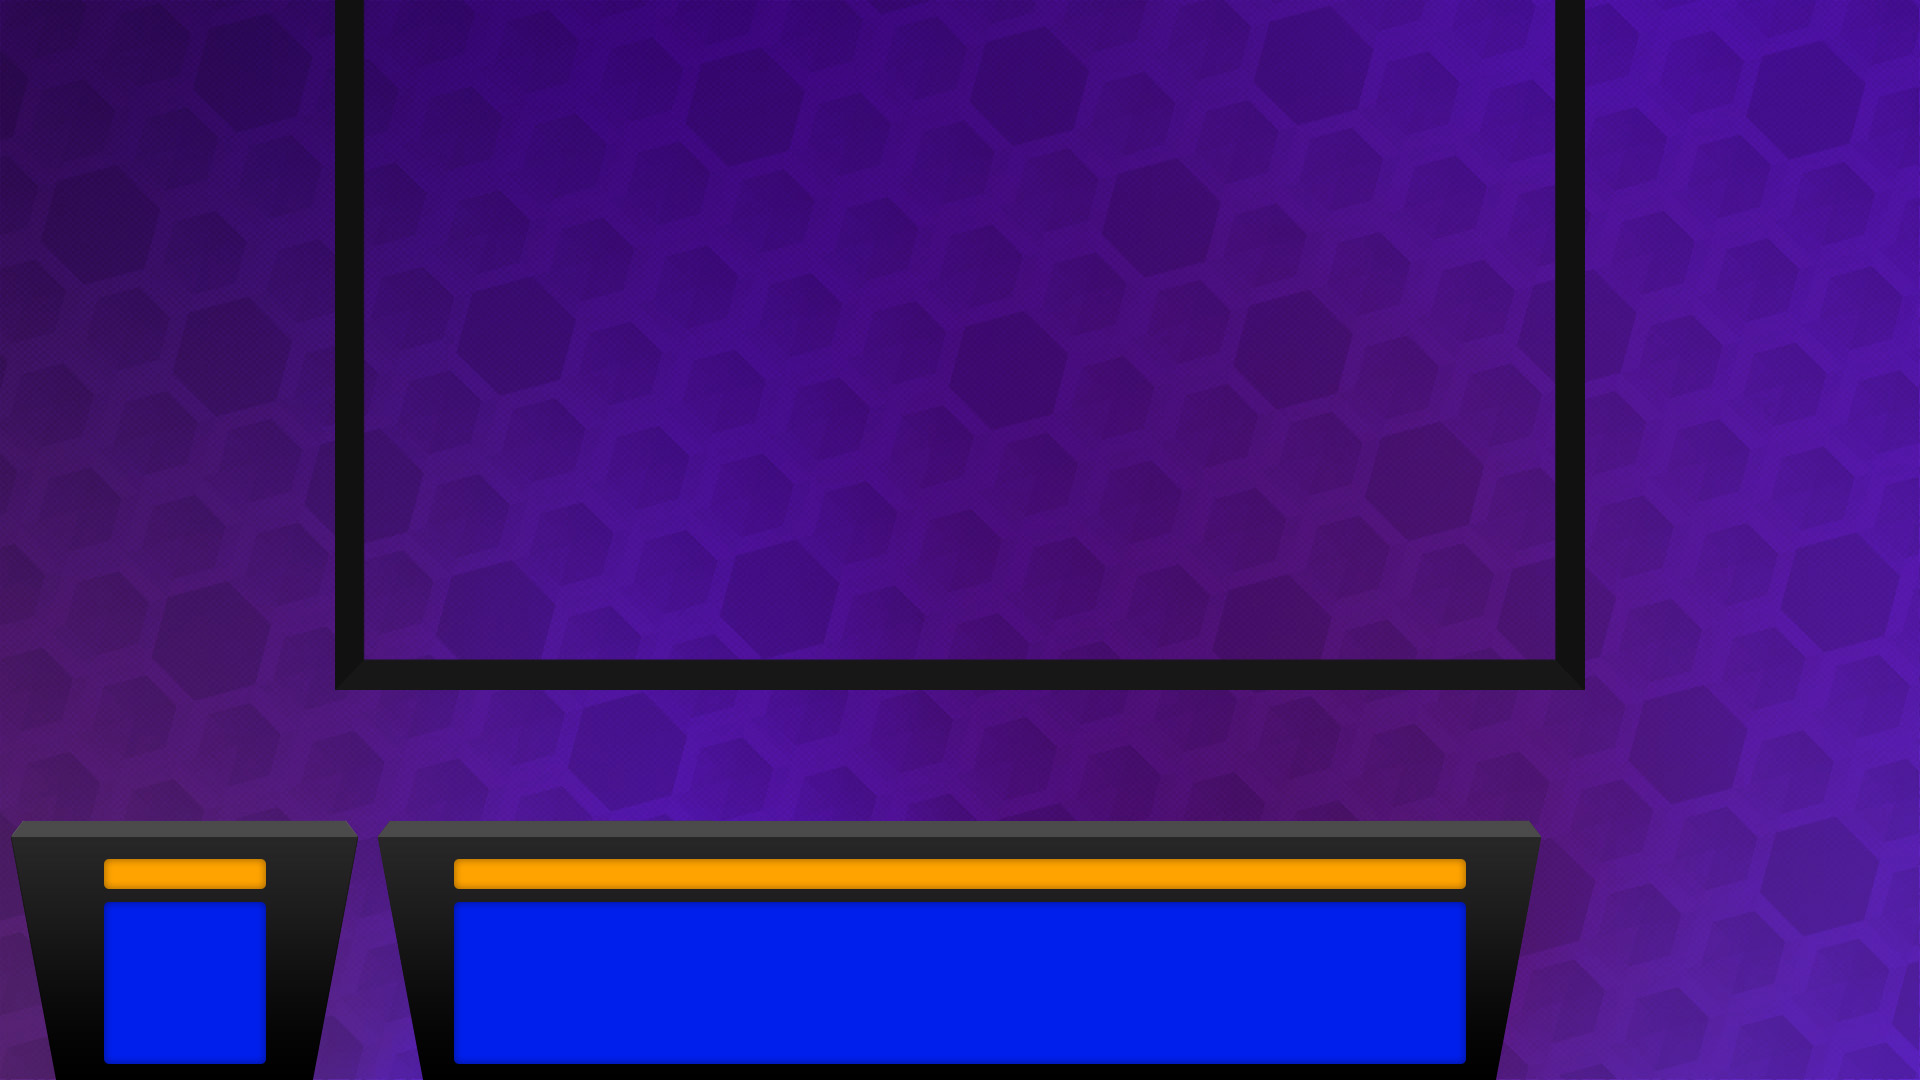
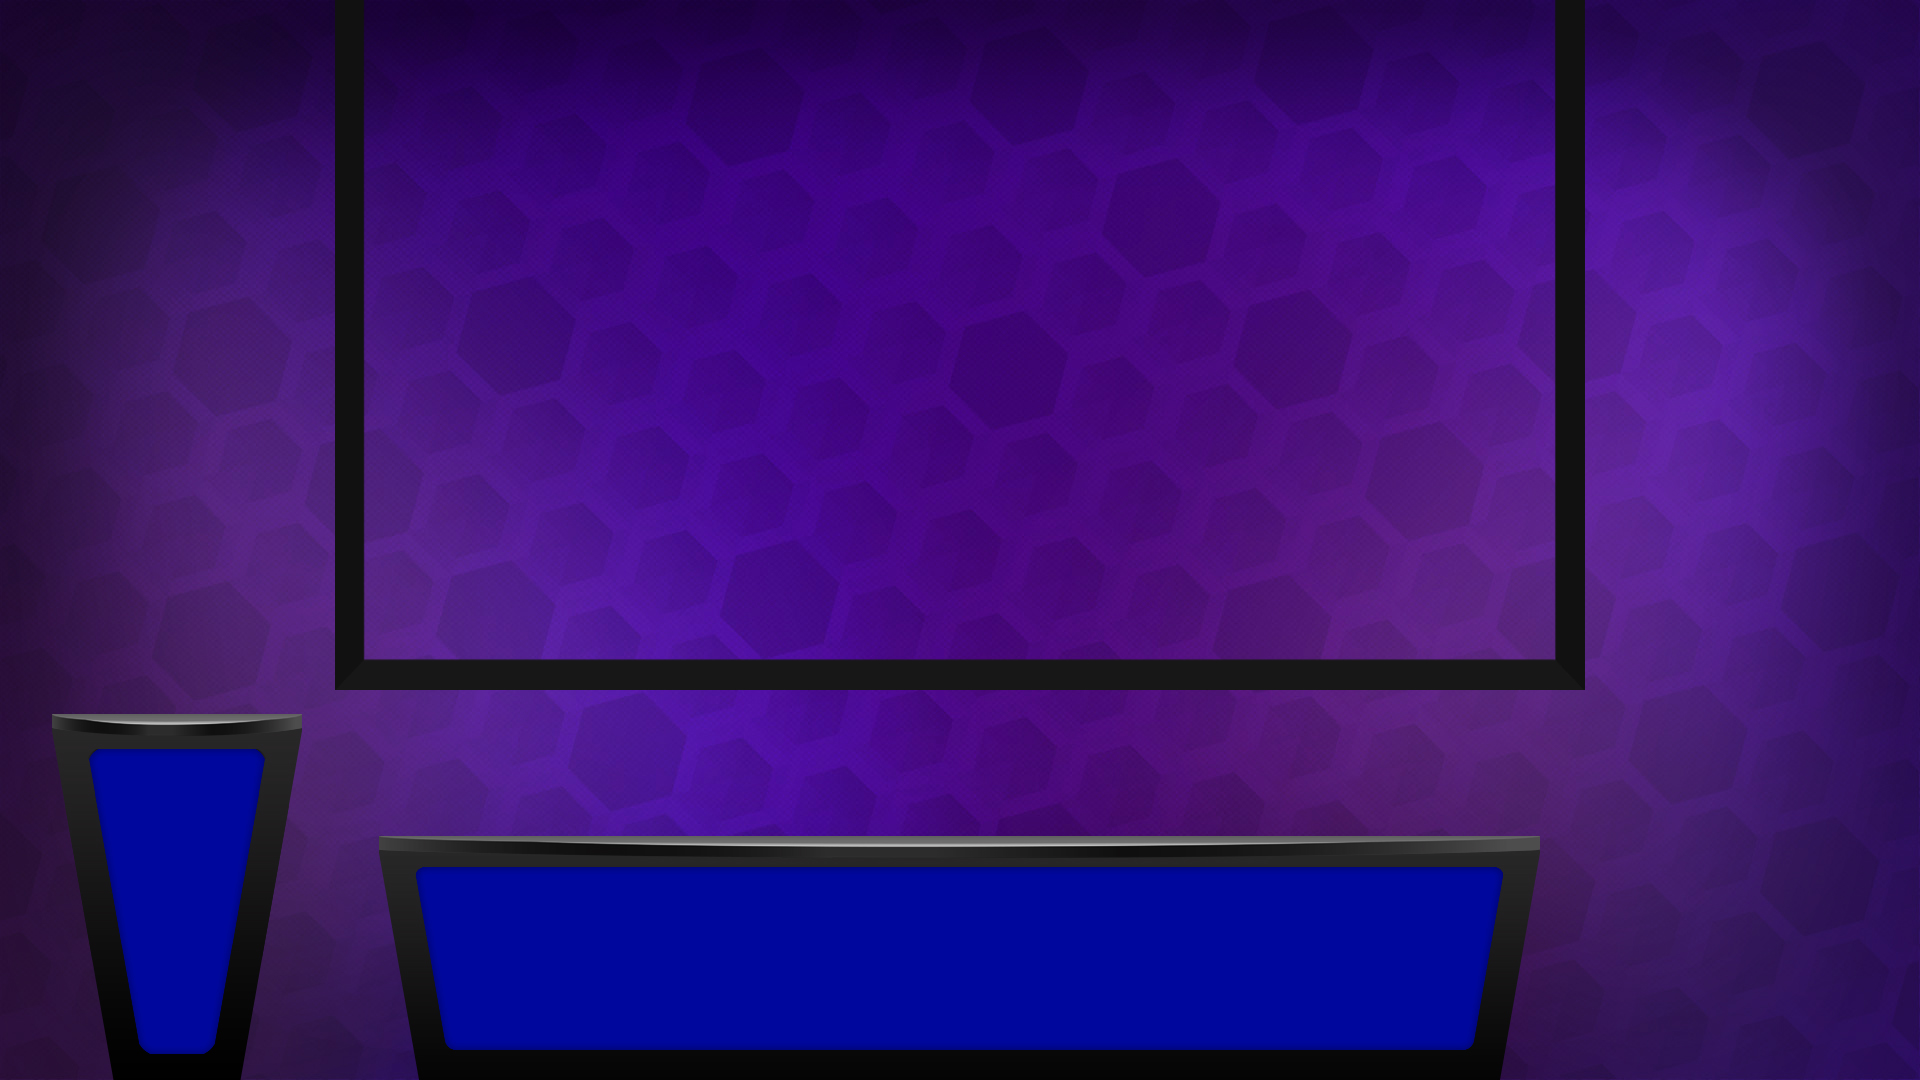
Версия 7.5.1

diff --git a/src/SIGame/SIGame/View/StudiaCommandPanel.xaml b/src/SIGame/SIGame/View/StudiaCommandPanel.xaml
@@ -233,7 +233,7 @@
         </local:DropDownButton>
         <Button Grid.Row="4" Grid.Column="1" Cursor="Hand" Command="{Binding Data.ShowmanDataExtensions.ChangeSums}" Content="{x:Static lp:Resources.Sums}" ToolTip="{x:Static lp:Resources.Sums_Hint}" />
 
-        <ToggleButton Grid.Row="5" Cursor="Hand" Style="{StaticResource PauseButton}" IsChecked="{Binding IsPaused}" Command="{Binding ChangePauseInGame}" />
+        <ToggleButton Grid.Row="5" Cursor="Hand" Style="{StaticResource PauseButton}" IsChecked="{Binding IsPaused, Mode=OneWay}" Command="{Binding ChangePauseInGame}" />
         <local:DropDownButton Grid.Row="5" Grid.Column="1" Cursor="Hand" Content="{x:Static lp:Resources.Exit}">
             <local:DropDownButton.DropDown>
                 <ContextMenu Placement="Relative" HorizontalOffset="100" VerticalOffset="-128">

diff --git a/src/SIGame/SIGame/View/Studia.xaml b/src/SIGame/SIGame/View/Studia.xaml
@@ -494,7 +494,7 @@
 
         <TextBlock Grid.Row="1" Grid.ColumnSpan="3" Text="{Binding Data.Hint}" FontSize="17" Style="{StaticResource HiddenTextBlock}"
                    Foreground="Black" VerticalAlignment="Bottom" HorizontalAlignment="Center" Margin="0,0,0,5" TextWrapping="Wrap" Padding="15,0"
-                   Background="White">
+                   Background="White" FontWeight="Bold">
         </TextBlock>
 
         <StackPanel Orientation="Vertical" Grid.RowSpan="2" Grid.ColumnSpan="3" HorizontalAlignment="Left" VerticalAlignment="Top" Margin="15,63,0,0">

diff --git a/src/SIGame/SIGame.ViewModel/ViewModel/GameViewModel.cs b/src/SIGame/SIGame.ViewModel/ViewModel/GameViewModel.cs
@@ -22,9 +22,9 @@ namespace SIGame.ViewModel
 
         public IViewerClient Host { get; private set; }
 
-        public ViewerData Data { get { return Host.MyData; } }
+        public ViewerData Data => Host.MyData;
 
-        public TableInfoViewModel TInfo { get { return Host.MyLogic.TInfo; } }
+        public TableInfoViewModel TInfo => Host.MyLogic.TInfo;
 
         public CustomCommand EndGame { get; }
 
@@ -35,28 +35,28 @@ namespace SIGame.ViewModel
 
         public CustomCommand Move { get; set; }
 
-        private bool networkGame = false;
+        private bool _networkGame = false;
 
         public bool NetworkGame
         {
-            get { return networkGame; }
-            set { networkGame = value; OnPropertyChanged(); }
+            get { return _networkGame; }
+            set { _networkGame = value; OnPropertyChanged(); }
         }
 
-        private int networkGamePort;
+        private int _networkGamePort;
 
         public int NetworkGamePort
         {
-            get { return networkGamePort; }
-            set { networkGamePort = value; OnPropertyChanged(); }
+            get { return _networkGamePort; }
+            set { _networkGamePort = value; OnPropertyChanged(); }
         }
 
-        private bool isPaused;
+        private bool _isPaused;
 
         public bool IsPaused
         {
-            get { return isPaused; }
-            set { isPaused = value; OnPropertyChanged(); }
+            get { return _isPaused; }
+            set { _isPaused = value; OnPropertyChanged(); }
         }
 
         public event Action GameEnded;
@@ -99,6 +99,7 @@ namespace SIGame.ViewModel
             Host.PersonDisconnected += UpdateMoveCommand;
             Host.Timer += Host_Timer;
             Host.Ad += Host_Ad;
+            Host.IsPausedChanged += Host_IsPausedChanged;
 
             UserSettings = userSettings;
 
@@ -113,6 +114,11 @@ namespace SIGame.ViewModel
             }
 
             Timers[1].TimeChanged += GameViewModel_TimeChanged;
+        }
+
+        private void Host_IsPausedChanged(bool isPaused)
+        {
+            IsPaused = isPaused;
         }
 
         private void Server_Reconnected() => Host.AddLog(Resources.ReconnectingMessage);
@@ -196,6 +202,7 @@ namespace SIGame.ViewModel
             Host.PersonDisconnected -= UpdateMoveCommand;
             Host.Timer -= Host_Timer;
             Host.Ad -= Host_Ad;
+            Host.IsPausedChanged -= Host_IsPausedChanged;
             Host = newHost;
             Host.Switch += Host_Switch;
             Host.StageChanged += UpdateMoveCommand;
@@ -204,6 +211,7 @@ namespace SIGame.ViewModel
             Host.OnIsHostChanged += UpdateMoveCommand;
             Host.Timer += Host_Timer;
             Host.Ad += Host_Ad;
+            Host.IsPausedChanged += Host_IsPausedChanged;
 
             UpdateMoveCommand();
 

diff --git a/src/SICore/SICore/Clients/Game/ThemeDeletersEnumerator.cs b/src/SICore/SICore/Clients/Game/ThemeDeletersEnumerator.cs
@@ -141,22 +141,6 @@ namespace SICore.Clients.Game
 
             _removeLog.Add("Before: " + removeLog.ToString());
 
-            if (!_order.Any(o => o.PlayerIndex == index || o.PlayerIndex == -1 && o.PossibleIndicies.Contains(index)))
-            {
-                for (var i = 0; i < _order.Length; i++)
-                {
-                    var playerIndex = _order[i].PlayerIndex;
-                    if (playerIndex > index)
-                    {
-                        _order[i].PlayerIndex--;
-                        continue;
-                    }
-                }
-
-                _removeLog.Add("After: " + ToString());
-                return;
-            }
-
             var processedPossibleIndicies = new HashSet<HashSet<int>>();
 
             void updatePossibleIndices(IndexInfo indexInfo)
@@ -180,6 +164,27 @@ namespace SICore.Clients.Game
                 }
 
                 processedPossibleIndicies.Add(possibleIndices);
+            }
+
+            if (!_order.Any(o => o.PlayerIndex == index || o.PlayerIndex == -1 && o.PossibleIndicies.Contains(index)))
+            {
+                for (var i = 0; i < _order.Length; i++)
+                {
+                    var playerIndex = _order[i].PlayerIndex;
+                    if (playerIndex > index)
+                    {
+                        _order[i].PlayerIndex--;
+                        continue;
+                    }
+
+                    if (playerIndex == -1)
+                    {
+                        updatePossibleIndices(_order[i]);
+                    }
+                }
+
+                _removeLog.Add("After: " + ToString());
+                return;
             }
 
             try

diff --git a/test/SICore/SICore.Tests/ThemeDeletersEnumeratorTests.cs b/test/SICore/SICore.Tests/ThemeDeletersEnumeratorTests.cs
@@ -63,5 +63,29 @@ namespace SICore.Tests
 
             Assert.IsFalse(enumerator.MoveNext());
         }
+
+        [Test]
+        public void RemoveNew()
+        {
+            var variants = new HashSet<int>(new int[] { 4 });
+            var newVariants = new HashSet<int>(new int[] { 3 });
+
+            var enumerator = new ThemeDeletersEnumerator(new []
+            {
+                new ThemeDeletersEnumerator.IndexInfo(1),
+                new ThemeDeletersEnumerator.IndexInfo(0),
+                new ThemeDeletersEnumerator.IndexInfo(2),
+                new ThemeDeletersEnumerator.IndexInfo(variants)
+            });
+
+            enumerator.RemoveAt(3);
+
+            enumerator.Reset(false);
+            enumerator.MoveNext();
+            enumerator.MoveNext();
+            enumerator.MoveNext();
+            enumerator.MoveNext();
+            Assert.AreEqual(newVariants, enumerator.Current.PossibleIndicies);
+        }
     }
 }

diff --git a/src/SICore/SICore/Clients/Viewer/Viewer.cs b/src/SICore/SICore/Clients/Viewer/Viewer.cs
@@ -74,6 +74,7 @@ namespace SICore
         public event Action<IViewerClient> Switch;
         public event Action StageChanged;
         public event Action<string> Ad;
+        public event Action<bool> IsPausedChanged;
 
         public ViewerData MyData => ClientData;
 
@@ -423,7 +424,9 @@ namespace SICore
                         {
                             #region Pause
 
-                            _logic.OnPauseChanged(mparams[1] == "+");
+                            var isPaused = mparams[1] == "+";
+                            _logic.OnPauseChanged(isPaused);
+                            IsPausedChanged?.Invoke(isPaused);
 
                             if (mparams.Length > 4)
                             {

diff --git a/src/SICore/SICore/Clients/Game/GameLogic.cs b/src/SICore/SICore/Clients/Game/GameLogic.cs
@@ -124,6 +124,10 @@ namespace SICore
         {
             _data.AllowAppellation = false;
             _data.Round = round;
+            _data.CanMarkQuestion = false;
+            _data.AnswererIndex = -1;
+            _data.StakerIndex = -1;
+            _data.Type = null;
             ProcessRound(round, 1);
 
             if (_data.Settings.AppSettings.GameMode == SIEngine.GameModes.Sport)
@@ -544,6 +548,8 @@ namespace SICore
 
             _data.CanMarkQuestion = false;
             _data.AnswererIndex = -1;
+            _data.StakerIndex = -1;
+            _data.Type = null;
         }
 
         private void Engine_EndQuestion(int themeIndex, int questionIndex)

diff --git a/src/SIGame/SIGame/Converters/MainBackgroundConverter.cs b/src/SIGame/SIGame/Converters/MainBackgroundConverter.cs
@@ -20,7 +20,7 @@ namespace SIGame.Converters
                 if (value is string uriString && Uri.TryCreate(uriString, UriKind.Absolute, out Uri uri))
                     image.UriSource = uri;
                 else
-                    image.StreamSource = Application.GetResourceStream(new Uri("/SIGame;component/Theme/main_background.png", UriKind.Relative)).Stream;
+                    image.StreamSource = Application.GetResourceStream(new Uri("/SIGame;component/Theme/main_background.jpg", UriKind.Relative)).Stream;
 
                 image.EndInit();
 

diff --git a/src/SICore/SICore/Clients/Showman/Showman.cs b/src/SICore/SICore/Clients/Showman/Showman.cs
@@ -223,7 +223,7 @@ namespace SICore
                         }
                     case Messages.Hint:
                         {
-                            ClientData.Hint = LO[nameof(R.RightAnswer)].ToUpperInvariant() + ": " + mparams[1];
+                            ClientData.Hint = $"{LO[nameof(R.RightAnswer)].ToUpperInvariant()} : {mparams[1]}";
                             break;
                         }
                     case Messages.Stage:

diff --git a/src/SICore/SICore/Clients/Viewer/IViewerClient.cs b/src/SICore/SICore/Clients/Viewer/IViewerClient.cs
@@ -32,6 +32,7 @@ namespace SICore
         event Action<IViewerClient> Switch;
         event Action StageChanged;
         event Action<string> Ad;
+        event Action<bool> IsPausedChanged;
 
         event Action OnIsHostChanged;
 
